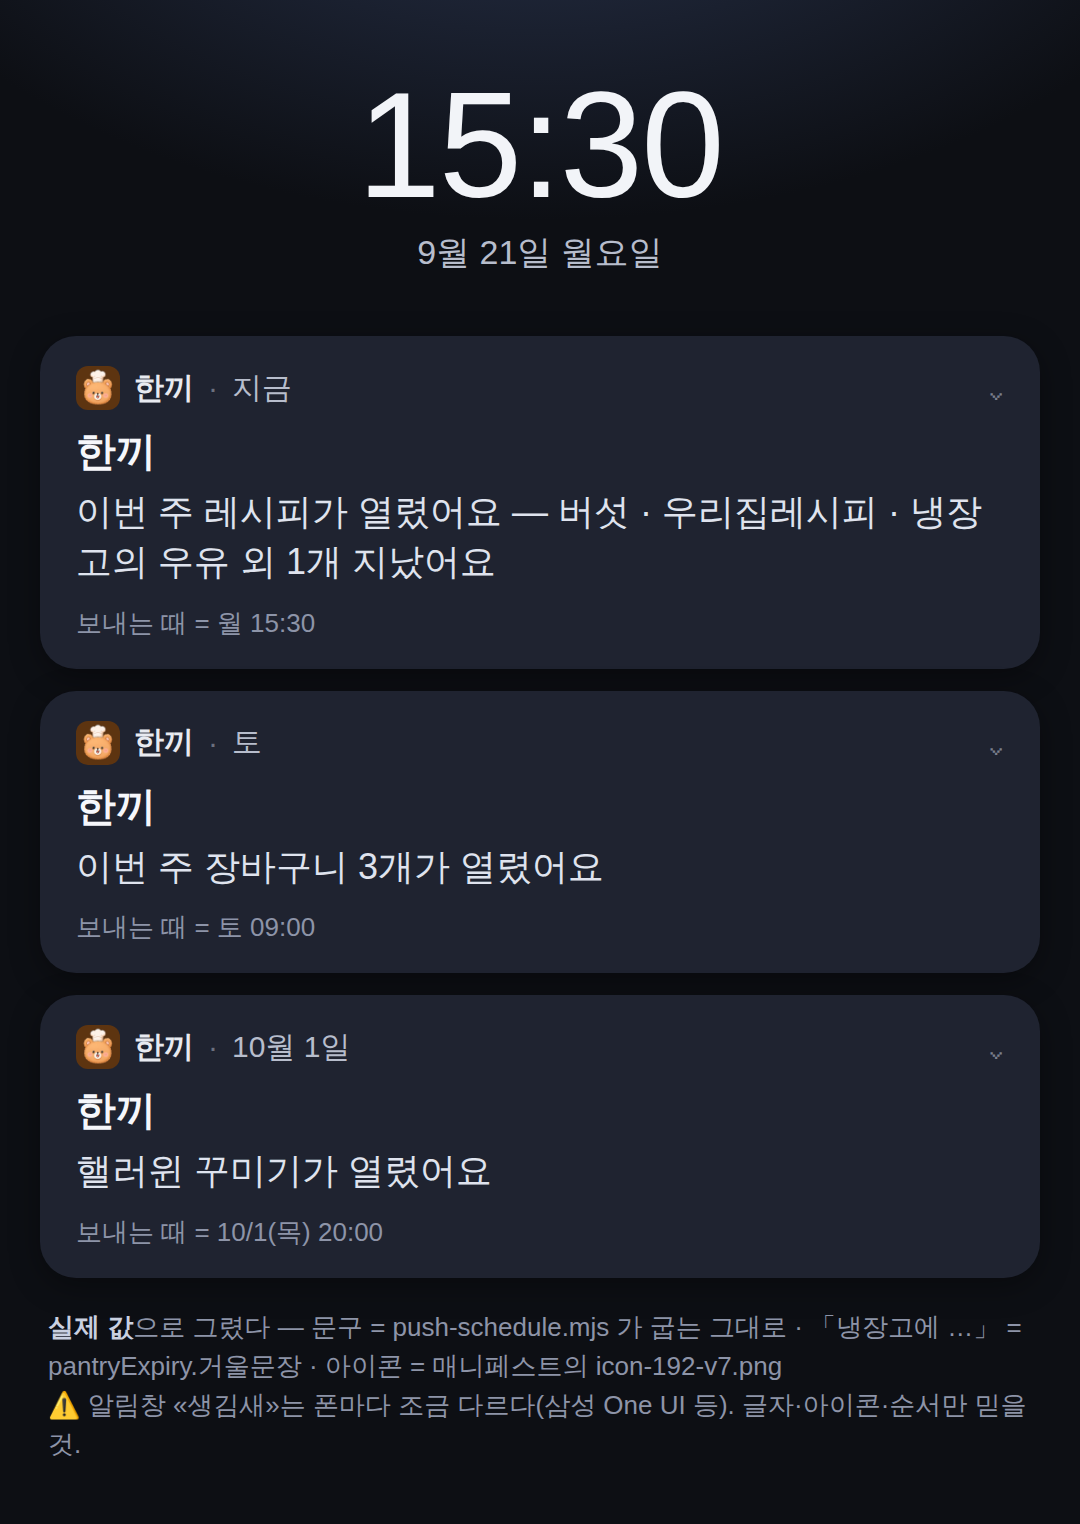
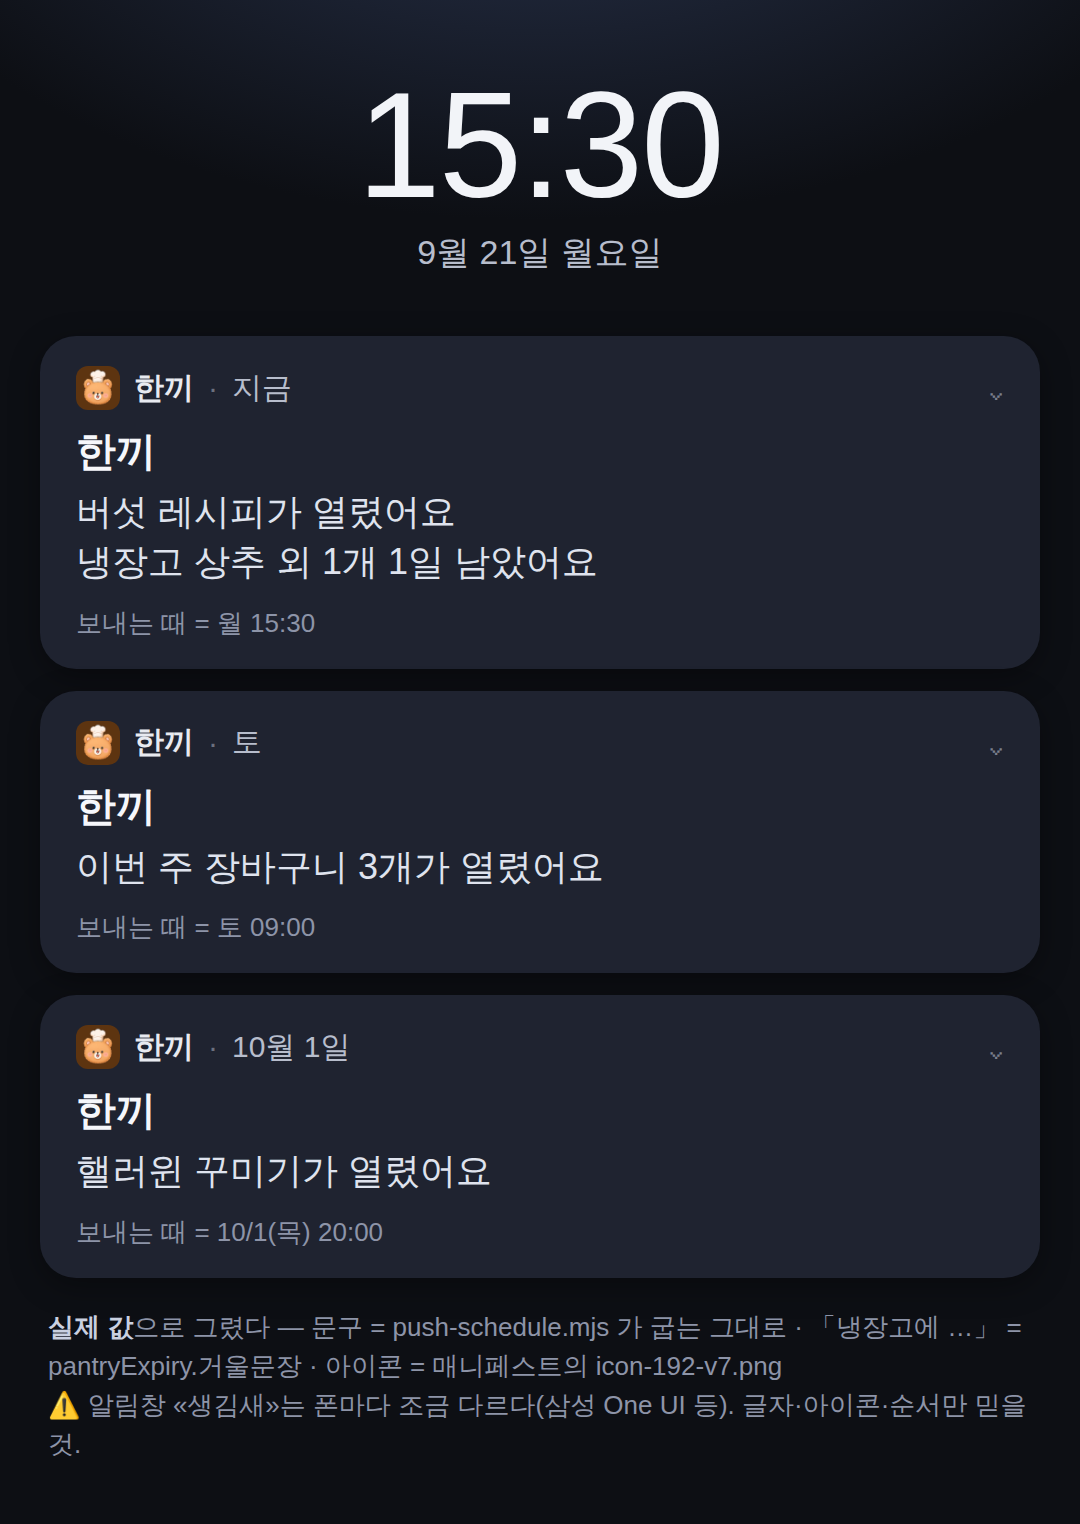
🔔 월요일 카드 = 「버섯 레시피가 열렸어요」 · 냉장고 줄은 둘째 줄 (창업자 2026-09-20 "b가 나아.")
- push-schedule.mjs: 「이번 주 레시피가 열렸어요 — 버섯」 → 「버섯 레시피가 열렸어요」 (재료를 앞으로 · 갈래 이름 뺌)
- sw.js: 냉장고 얹기 줄을 ' · ' 대신 줄바꿈으로 — 안드로이드 알림 둘째 줄
- 알림 시안 PNG 다시 그림 · 재현판 ⑥ 잣대 갱신 · 설계 문서에 확정 절 추가
- 빌드 exit 0 · 재현판 셋 통과

Claude-Session: https://claude.ai/code/session_01EZTagm6ZP9QSzmAY1NjhMK

Changed region(s): [[0.0611, 0.3084, 0.5806, 0.4009], [0.6111, 0.3084, 0.825, 0.3701], [0.8556, 0.3084, 0.9167, 0.3701]]

diff --git a/hankki/src/sw.js b/hankki/src/sw.js
@@ -183,7 +183,7 @@ self.addEventListener('push', (event) => {
   event.waitUntil(Promise.all([오늘문구(event), 거울읽어문장(new Date())]).then(([값, 얹을줄]) => {
   const 제목 = String(값.제목 || '한끼')
   // 🧊 임박 재료가 있으면 한 줄 «얹는다» — 없거나 못 읽으면 원래 본문 그대로(추가 푸시 0 · 하루 한 번 그대로)
-  const 본문 = String(값.본문 || '새로운 소식이 있어요') + (얹을줄 ? ' · ' + 얹을줄 : '')
+  const 본문 = String(값.본문 || '새로운 소식이 있어요') + (얹을줄 ? '\n' + 얹을줄 : '')
   const 길 = String(값.길 || './')
   const 표 = String(값.표 || 'hankki')
   return self.registration.showNotification(제목, {

diff --git a/hankki/docs/알림-설계-2026-09-19.md b/hankki/docs/알림-설계-2026-09-19.md
@@ -233,3 +233,9 @@ push:log:<YYYY-MM>               { 보냄, 성공, 만료삭제, 실행 }
 - `src/sw.js` = `Promise.all([오늘문구, 거울읽어문장])` → 본문 «뒤»에 ` · ` 로 얹는다 · 못 읽으면 원래 알림
 - 🔒 `_repro-유통기한얹기-0920.mjs` 16칸 — 사진·메모 «없음» · 같으면 안 씀 · 금요일 D-2 를 월요일에 읽으면 «지났어요» · 캐시 터져도 안 멎는다
 - ⏳ 남은 실측 = 갤럭시 TWA 에서 sw 가 알림 시점에 Cache Storage 를 읽는지(표준으론 된다) — 첫 알림(월 15:30) 때 본다
+
+### 🅱 월요일 카드 문구 «확정» (창업자 2026-09-20 00:2x *"b가 나아."*)
+- 📮 그 앞 = *"이번주레시피가 열렸어요 버섯 우리집레시피 이거 너무 정신없고 길어"* → 후보 셋(🅰🅱🅲)을 실제 값으로 그려 보였다(`docs/알림-시안-후보-2026-09-20.png`).
+- ✅ **본문 = 「{재료} 레시피가 열렸어요」** (예: 「버섯 레시피가 열렸어요」) — 「이번 주」·「우리집레시피」를 뺐다. `push-schedule.mjs` 한 곳.
+- ✅ **냉장고 줄은 «둘째 줄»**(`\n`) — ` · ` 로 잇던 것을 바꿨다. `sw.js` 한 곳. 안드로이드 알림은 여러 줄 본문을 그대로 보여준다(시안 = `docs/알림-시안-2026-09-20.png`).
+- 🔒 `_repro-유통기한얹기-0920.mjs` ⑥ 이 `\n` 을 잰다.
